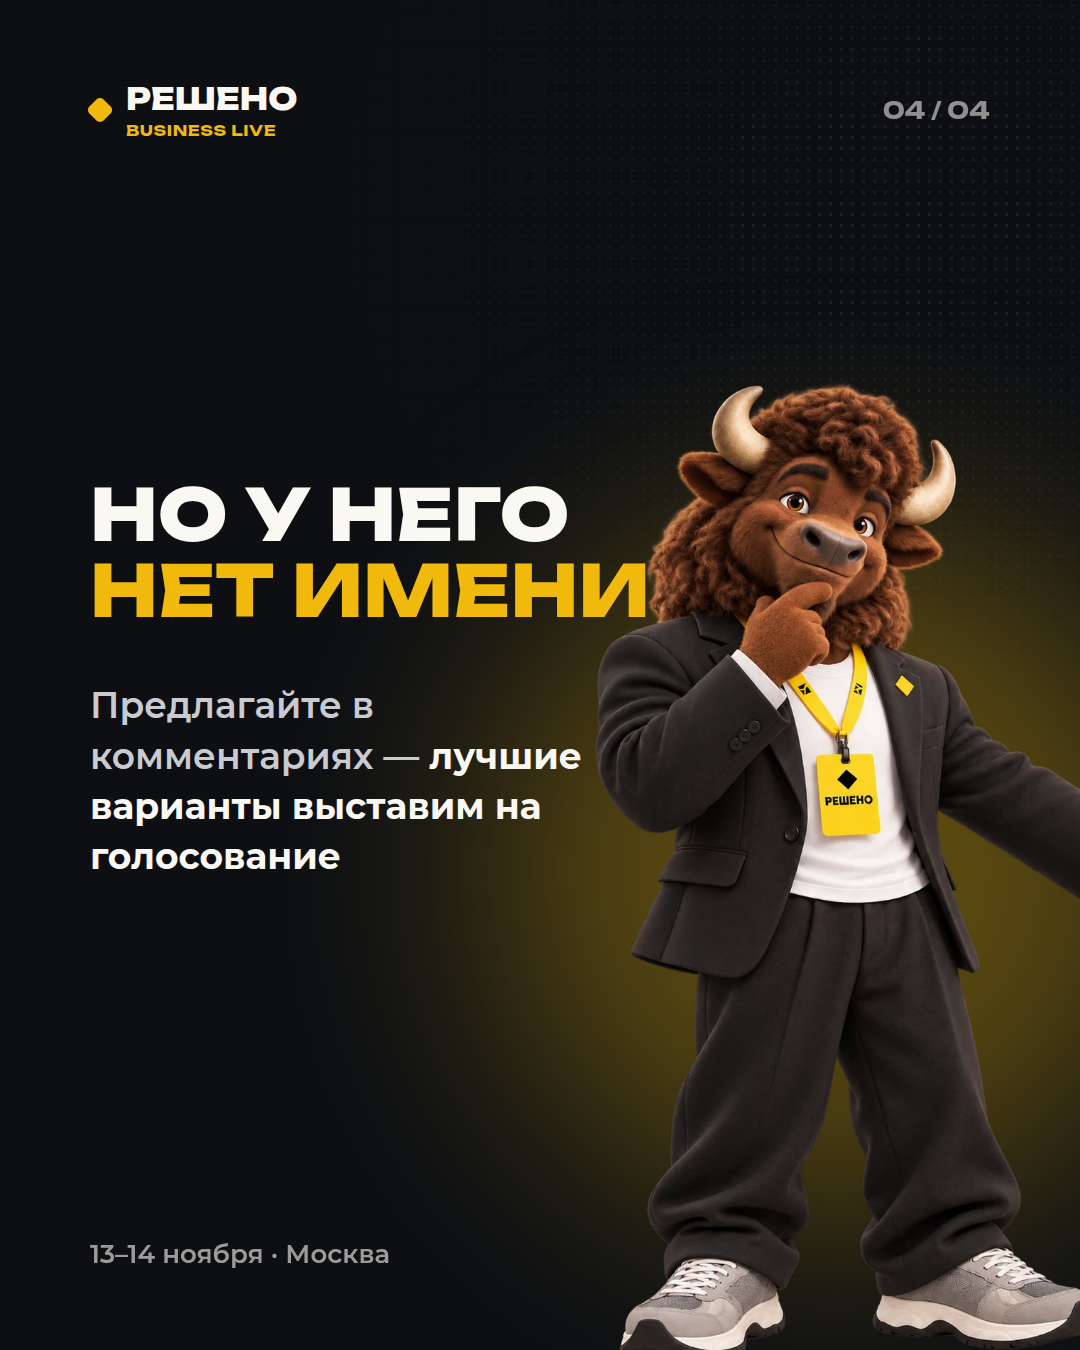
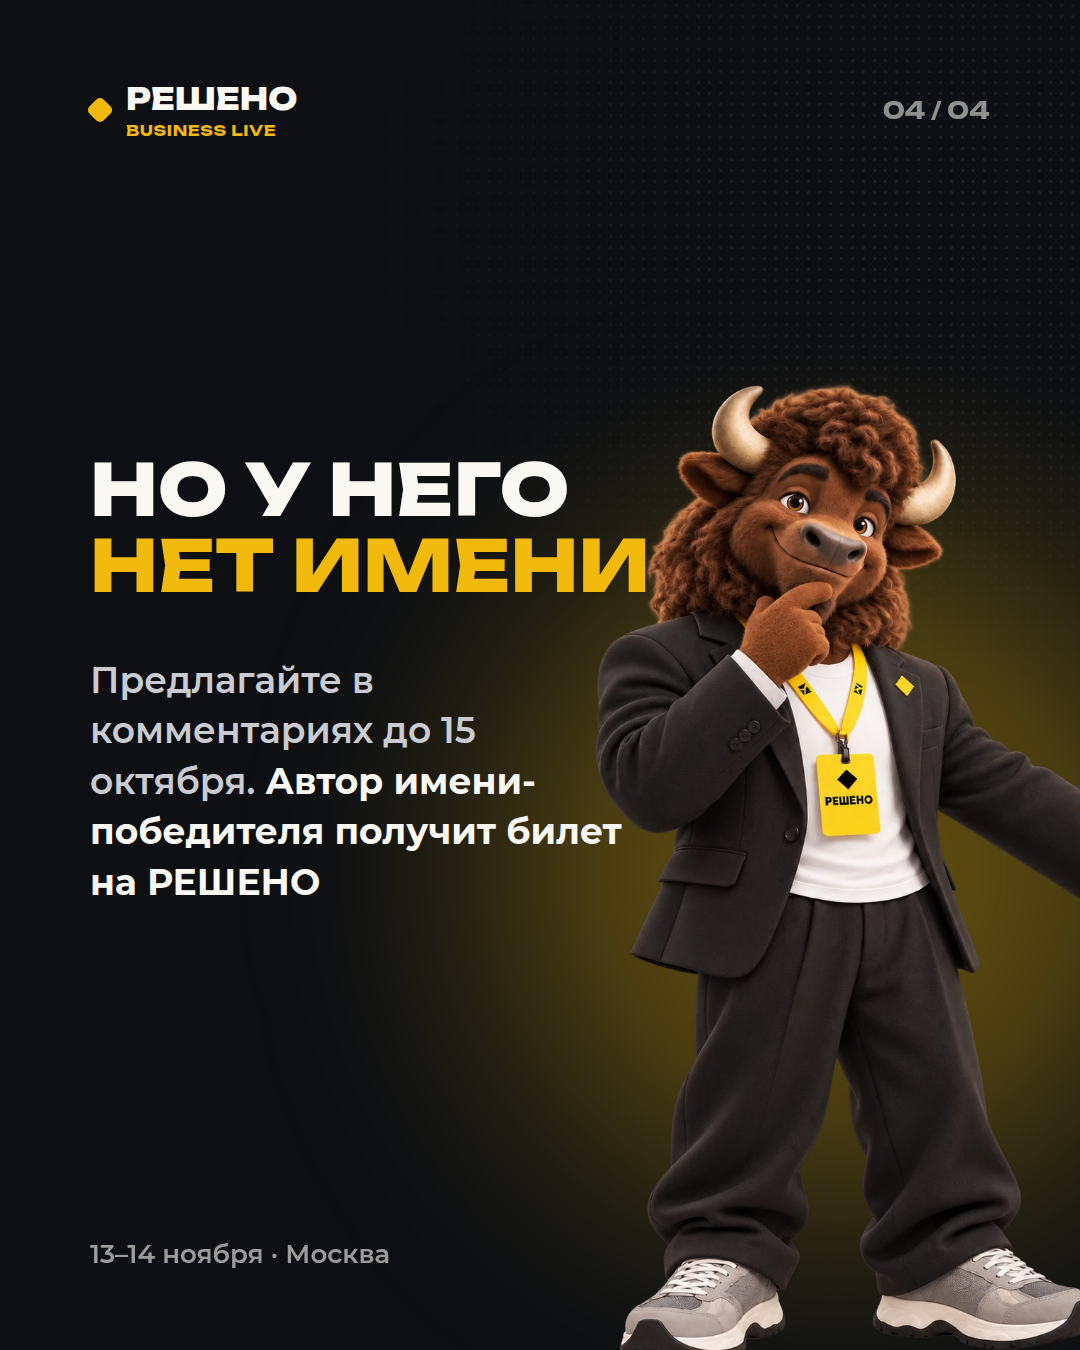
Weeks 3–4: name contest with a ticket prize (rules, vote and winner stories); start price confirmed
Claude-Session: https://claude.ai/code/session_015DfynR8ViCbDyQMuNVS5SH

Changed region(s): [[0.0611, 0.4978, 0.5806, 0.6844], [0.0611, 0.3422, 0.6111, 0.4667]]

diff --git a/content/_kit/kit.html b/content/_kit/kit.html
@@ -90,6 +90,7 @@ function block(b){
     case 'photo': return `<div class="photo" style="height:${b.h||420}px"><img src="${b.src}"></div>`;
     case 'vs': return `<div class="vs">${b.items.map(t=>`<div class="card"><div class="big">${t}</div></div>`).join('<!---->')}</div>`;
     case 'bars': return `<div class="list">${b.items.map(([l,p])=>`<div class="bar"><div><div class="lbl">${l}</div><div class="track"><div class="fill" style="width:${typeof p==='number'?p:0}%"></div></div></div><div class="pct">${typeof p==='number'?p+'%':p}</div></div>`).join('')}</div>`;
+    case 'slot': return `<div style="height:${b.h||400}px;border:3px dashed currentColor;border-radius:26px;display:flex;align-items:center;justify-content:center;text-align:center;padding:30px;font-weight:700;font-size:28px;opacity:.45">${b.text}</div>`;
     case 'gap': return `<div class="gap-${b.s||'m'}"></div>`;
     case 'grow': return `<div class="grow"></div>`;
   }

diff --git a/content/plan/make_xlsx.py b/content/plan/make_xlsx.py
@@ -39,7 +39,7 @@ rows = [
  ("7. Чат", "Лично пригласить 10–15 человек", "Чат", "Чат", S,S,S,S,N, DO, "telegram-chat/5-lichnoe-priglashenie.md (там же таблица приглашённых)", "Составить список людей"),
  ("7. Чат", "Первое сообщение модератора в чате", "Чат", "Чат", S,S,S,S,N, W, "telegram-chat/4-privetstvie.md", ""),
  ("8. YouTube", "Интро, переход и аутро — вставлять в каждый ролик", "Оформление", "YouTube", S,S,S,N,S, W, "youtube/ (intro, stinger, outro + README)", "Не публикуются отдельно — используются при монтаже"),
- ("10. Недели 3–4", "Пн 12.10 · Знакомьтесь: это зубр + сбор имени", "Карусель", "Знакомство", N,N,N,S,S, W, "content/nedeli-3-4_12.10-25.10/01-pn-12.10-znakomtes-zubr/", "Решить про подарок автору имени"),
+ ("10. Недели 3–4", "Пн 12.10 · Знакомьтесь: это зубр + сбор имени", "Карусель", "Знакомство", N,N,N,S,S, W, "content/nedeli-3-4_12.10-25.10/01-pn-12.10-znakomtes-zubr/", "Конкурс имени: приз — билет; итоги 18.10"),
  ("10. Недели 3–4", "Вт 13.10 · Сколько стоит потерянный клиент + чек-лист", "Карусель", "Польза", N,N,N,S,S, W, "content/nedeli-3-4_12.10-25.10/02-vt-13.10-poteryannyy-klient/", "Сразу после поста — чек-лист в Telegram"),
  ("10. Недели 3–4", "Ср 14.10 · Мем «Родительский чат в 23:47»", "Мем", "Мем", N,N,N,S,S, W, "content/nedeli-3-4_12.10-25.10/03-sr-14.10-mem-roditelskiy-chat/", ""),
  ("10. Недели 3–4", "Чт 15.10 · 5 фраз, которые удерживают после пробного", "Карусель", "Польза", N,N,N,S,S, W, "content/nedeli-3-4_12.10-25.10/04-cht-15.10-5-fraz-posle-probnogo/", ""),
@@ -51,7 +51,7 @@ rows = [
  ("10. Недели 3–4", "Ср 21.10 · 5 вопросов тренеру на собеседовании", "Карусель", "Польза", N,N,N,S,S, W, "content/nedeli-3-4_12.10-25.10/10-sr-21.10-sobesedovanie-trenera/", ""),
  ("10. Недели 3–4", "Чт 22.10 · Мем «Уровни владельца» + рилс «Hot Seat»", "Мем + рилс", "Мем", N,N,N,S,S, W, "content/nedeli-3-4_12.10-25.10/11-cht-22.10-mem-urovni/", "Рилс — под трендовый звук"),
  ("10. Недели 3–4", "Пт 23.10 · Business Live: подайте бизнес на разбор", "Карусель", "Форум", N,N,N,S,S, W, "content/nedeli-3-4_12.10-25.10/12-pt-23.10-business-live/", "Ссылка ведёт на #business-live"),
- ("10. Недели 3–4", "Сб 24.10 · Вы покупаете не билет", "Карусель", "Продажа", N,N,N,S,S, W, "content/nedeli-3-4_12.10-25.10/13-sb-24.10-ne-bilet/", "Проверить стартовую цену для первых 50"),
+ ("10. Недели 3–4", "Сб 24.10 · Вы покупаете не билет", "Карусель", "Продажа", N,N,N,S,S, W, "content/nedeli-3-4_12.10-25.10/13-sb-24.10-ne-bilet/", ""),
  ("10. Недели 3–4", "Вс 25.10 · Объясните, что вы владелец спортшколы…", "Картинка", "Вовлечение", N,N,N,S,S, W, "content/nedeli-3-4_12.10-25.10/14-vs-25.10-objasni/", ""),
  ("10. Недели 3–4", "Каждый день · Сторис-отсчёт 32 → 19 дней", "Сторис", "Отсчёт", S,N,N,S,S, W, "content/nedeli-3-4_12.10-25.10/storis-otschet/", ""),
  ("9. Неделя 2 — спикеры", "Пн 05.10 · Тизер «На этой неделе раскрываем всех спикеров»", "Пост + сторис", "Спикеры", N,N,N,S,S, W, "content/week-02_05.10-11.10/telegram/1-pn-05.10-tizer.md · Figma: «Неделя 2 — спикеры»", ""),

diff --git a/content/nedeli-3-4_12.10-25.10/01-pn-12.10-znakomtes-zubr/tekst.md b/content/nedeli-3-4_12.10-25.10/01-pn-12.10-znakomtes-zubr/tekst.md
@@ -12,7 +12,16 @@
 
 Есть одна проблема — у него нет имени.
 
-Предлагайте варианты в комментариях 👇 Лучшие выставим на голосование, а автор победившего имени получит подарок от команды форума.
+**Придумайте ему имя — и выиграйте билет на РЕШЕНО** 🎟
+
+Как участвовать:
+1. Предложите имя в комментариях до 15 октября включительно. Можно несколько вариантов.
+2. 16–17 октября — голосование: 5 лучших вариантов выставим в сторис.
+3. 18 октября объявим победителя.
+
+Автор имени-победителя получает билет на форум РЕШЕНО — 13–14 ноября, Москва.
+
+Если одно имя предложили несколько человек, побеждает тот, кто написал первым. Билет именной, денежный эквивалент не выдаётся, дорога и проживание — за счёт победителя. Варианты из Telegram, VK и Instagram участвуют вместе.
 
 ## VK
 
@@ -22,16 +31,18 @@
 
 Знакомьтесь: это зубр РЕШЕНО 🦬 Он тоже владелец спортивного бизнеса — и теперь будет с нами до 13 ноября: шутить, объяснять цифры и звать на форум.
 
-Но у него нет имени. Предлагайте в комментариях 👇 Лучшие — на голосование в сторис.
+Но у него нет имени. Придумайте — и выиграйте билет на РЕШЕНО 🎟
+
+Предлагайте варианты в комментариях до 15 октября. 16–17 октября — голосование в сторис, 18 октября — объявим победителя. Подробные условия — в Telegram-канале (ссылка в профиле).
 
 #РЕШЕНО #спортивныйбизнес #спортивнаяшкола #бизнесфорум #владелецбизнеса
 
 ## Сторис
 
-1) «Знакомьтесь» + зубр-приглашает — стикер «Вопрос»: «Как его назовём?»
+1) `konkurs-imeni/storis-1-12.10-predlagayte.png` + стикер «Вопрос»: «Как его назовём?» (ответы тоже участвуют).
 2) Отсчёт «До форума 32 дня».
-3) Вечером — 3–4 лучших варианта имени из комментариев стикером-опросом.
+3) 13–15.10 — каждый день в сторис 2–3 смешных варианта из комментариев: «Вот что вы уже предложили».
 
 ## Перед публикацией
 
-Подарок автору имени — согласовать с командой (бейдж/билет/мерч). Если без подарка — убрать последнюю фразу.
+Приз — билет на форум. Бухгалтерии: приз в рекламном конкурсе дороже 4 000 ₽ облагается НДФЛ — уточнить, как оформляете вручение.

diff --git a/content/nedeli-3-4_12.10-25.10/README.md b/content/nedeli-3-4_12.10-25.10/README.md
@@ -18,16 +18,17 @@
 | Ср 21.10 | 10:00 | Польза | 5 вопросов тренеру на собеседовании | `10-…sobesedovanie-trenera` (7 сл.) |
 | Чт 22.10 | 19:00 | Мем + рилс | «Уровни владельца» + рилс «Hot Seat» | `11-…mem-urovni` |
 | Пт 23.10 | 10:00 | Форум | Business Live: подайте бизнес на разбор | `12-…business-live` (4 сл.) |
-| Сб 24.10 | 12:00 | Продажа | «Вы покупаете не билет» + стартовая цена | `13-…ne-bilet` (4 сл.) ⚠ |
+| Сб 24.10 | 12:00 | Продажа | «Вы покупаете не билет» + стартовая цена | `13-…ne-bilet` (4 сл.) |
 | Вс 25.10 | 12:00 | Вовлечение | «Объясните, что вы владелец спортшколы, не говоря об этом» | `14-…objasni` |
+
+**Конкурс имени (приз — билет на форум):** 12.10 старт → до 15.10 предлагают имена в комментариях → 16–17.10 голосование в сторис и опросе Telegram → 18.10 объявление победителя. Сторис — `konkurs-imeni/`, сценарий — в `tekst.md` дней 12.10, 15.10, 16.10, 17.10, 18.10.
 
 **Каждый день в сторис:** отсчёт (`storis-otschet/дата-число.png`, 32 → 19 дней), репост поста дня, стикер-опрос/вопрос из `tekst.md`.
 
 **Ссылки** ведут сразу на нужный блок сайта: программа — `#program`, Business Live — `#business-live`, тарифы — `#tickets`.
 
 **Перед публикацией (⚠):**
-- 12.10 — решить, будет ли подарок автору имени зубра.
 - 13.10 — сразу после поста выложить чек-лист в Telegram.
-- 24.10 — проверить, действует ли стартовая цена для первых 50.
+- 18.10 — прислать имя-победителя и ник автора: перерисую сторис-объявление.
 
 Исходники: карусели и сторис — `content/_kit/w34.mjs` (`node render.mjs w34.mjs`), мемы — `content/_kit/memy-w34.mjs` (`node meme.mjs memy-w34.mjs`).

diff --git a/content/nedeli-3-4_12.10-25.10/07-vs-18.10-kakoy-ty-zubr/tekst.md b/content/nedeli-3-4_12.10-25.10/07-vs-18.10-kakoy-ty-zubr/tekst.md
@@ -4,6 +4,18 @@
 
 ## Telegram
 
+**Сначала — отдельный пост-объявление (11:00):**
+
+> **У зубра есть имя!** 🎉
+>
+> Знакомьтесь: **[ИМЯ]**. Так решили вы — [N] голосов.
+>
+> Автор имени — [Имя участника]. Поздравляем: билет на РЕШЕНО — ваш! Напишем вам в личные сообщения.
+>
+> Спасибо всем, кто придумывал, — читали всё и смеялись. Особенно над «[самый смешной вариант]» 😄
+
+**Затем — основной пост (12:00):**
+
 **Какой ты зубр сегодня?** 🦬
 
 1 — уснул над отчётом
@@ -27,6 +39,7 @@
 
 ## Сторис
 
+0) **Конкурс:** `konkurs-imeni/storis-3-18.10-pobeditel.png` — вписать имя и ник победителя (пришлите — перерисую за минуту), отметить победителя через @.
 1) Картинка + стикер-опрос с цифрами (1–3 / 4–6) или стикер «Вопрос».
 2) Отсчёт «26 дней».
 

diff --git a/content/nedeli-3-4_12.10-25.10/05-pt-16.10-mem-net-da/tekst.md b/content/nedeli-3-4_12.10-25.10/05-pt-16.10-mem-net-da/tekst.md
@@ -23,6 +23,7 @@
 
 ## Сторис
 
+0) **Конкурс:** `konkurs-imeni/storis-2-16.10-golosovanie.png` + стикер-опрос (до 4 вариантов в одном стикере; если вариантов 5 — две сторис). В Telegram — нативный опрос с теми же 5 именами.
 1) Мем + стикер-опрос «Какой форум выберете? Мотивация / Разбор цифр».
 2) Рилс «Полный зал» — репост в сторис.
 3) Отсчёт «28 дней».

diff --git a/content/nedeli-3-4_12.10-25.10/13-sb-24.10-ne-bilet/tekst.md b/content/nedeli-3-4_12.10-25.10/13-sb-24.10-ne-bilet/tekst.md
@@ -35,6 +35,3 @@
 1) Зубр подмигивает + «Стартовая цена — для первых 50» + стикер-ссылка «Забронировать».
 2) Отсчёт «20 дней».
 
-## Перед публикацией
-
-⚠ Перед публикацией проверить, что стартовая цена для первых 50 ещё действует; если уже нет — заменить последний слайд и фразу на актуальную цену/дедлайн.

diff --git a/content/nedeli-3-4_12.10-25.10/04-cht-15.10-5-fraz-posle-probnogo/tekst.md b/content/nedeli-3-4_12.10-25.10/04-cht-15.10-5-fraz-posle-probnogo/tekst.md
@@ -41,6 +41,7 @@
 
 ## Сторис
 
+0) **Конкурс:** «Последний день — предлагайте имя зубру!» (`konkurs-imeni/storis-1-12.10-predlagayte.png` + стикер-ссылка на пост 12.10).
 1) Слайд-обложка + «Сохраните и отправьте админу» — стикер-ссылка на пост.
 2) Отсчёт «29 дней».
 

diff --git a/content/nedeli-3-4_12.10-25.10/06-sb-17.10-den-na-reshno/tekst.md b/content/nedeli-3-4_12.10-25.10/06-sb-17.10-den-na-reshno/tekst.md
@@ -39,5 +39,6 @@
 
 ## Сторис
 
+0) **Конкурс:** репост голосования + «Голосование до 23:59 сегодня!»
 1) Слайды «Утро» и «Вечер» отдельными сторис + стикер «Какую сессию ждёте?» (вопрос).
 2) Отсчёт «27 дней».
